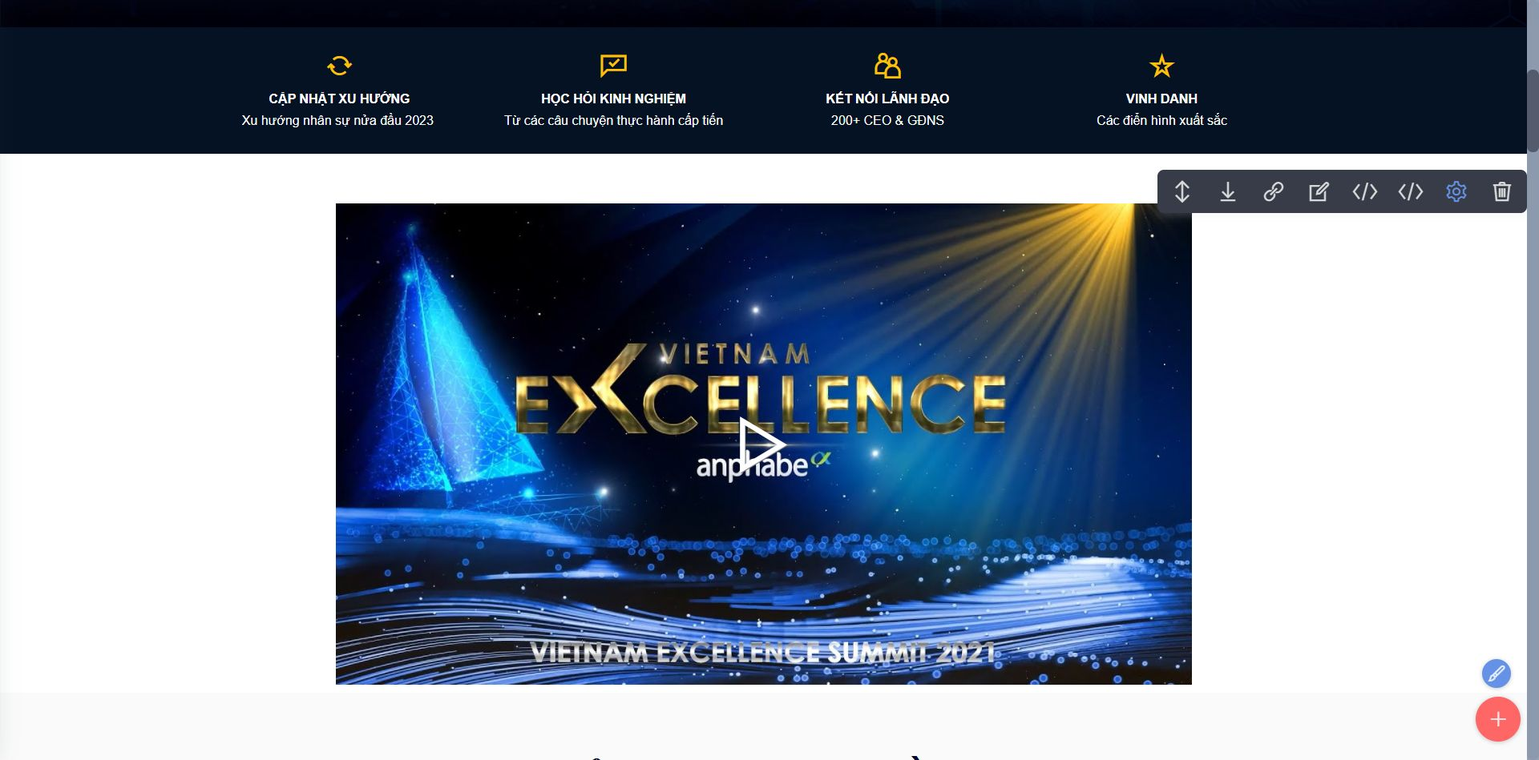
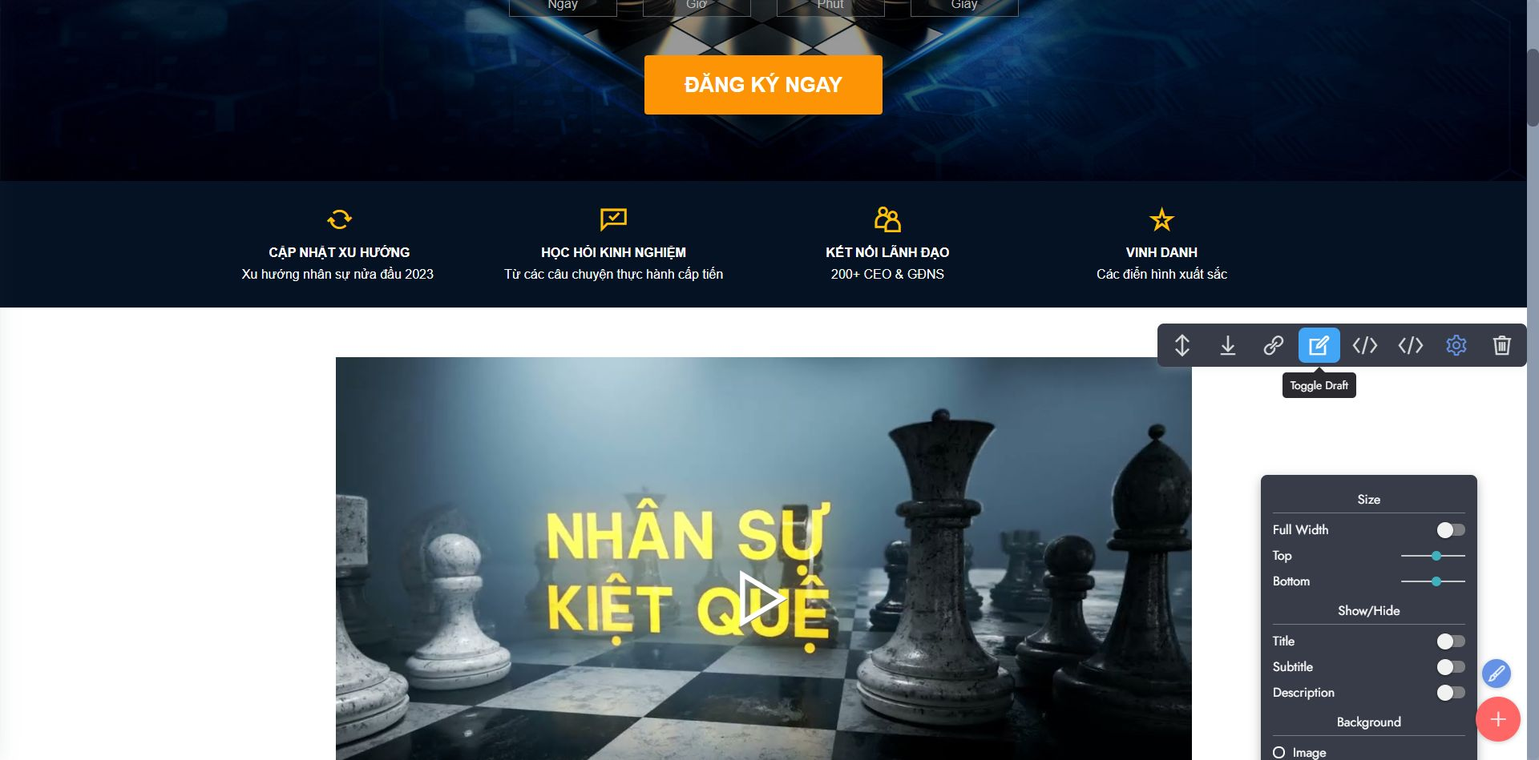
UPDATE

diff --git a/vietnamexcellence/2023/index.html b/vietnamexcellence/2023/index.html
@@ -207,16 +207,22 @@ height="0" width="0" style="display:none;visibility:hidden"></iframe></noscript>
     </div>
 </section>
 
-<section data-bs-version="5.1" class="video2 cid-tlgJkYaEFq" id="video2-6k">
+
+
+<section data-bs-version="5.1" class="video3 cid-tKwa2oU6F7" id="video3-7j">
     
     
     
     <div class="container">
-        <div class="mbr-section-head">
-        </div>
-        <div class="row justify-content-center mt-4">
-            <div class="col-12 col-md-10 video-block">
-                <div class="video-wrapper"><iframe class="mbr-embedded-video" src="https://www.youtube.com/embed/wcieJZ-XSuQ?rel=0&amp;amp;&amp;showinfo=0&amp;autoplay=0&amp;loop=0" width="1280" height="720" frameborder="0" allowfullscreen></iframe></div>
+        
+        <div class="row mt-4">
+            <div class="col-12 col-md-6 video-block">
+                <div class="video-wrapper"><iframe class="mbr-embedded-video" src="https://www.youtube.com/embed/3EbuVu4iTmk?rel=0&amp;amp;&amp;showinfo=0&amp;autoplay=0&amp;loop=0" width="1280" height="720" frameborder="0" allowfullscreen></iframe></div>
+                
+            </div>
+            <div class="col-12 col-md-6 video-block">
+                <div class="video-wrapper"><iframe class="mbr-embedded-video" src="https://www.youtube.com/embed/rEzDZhLiPPw?rel=0&amp;amp;&amp;showinfo=0&amp;autoplay=0&amp;loop=0" width="1280" height="720" frameborder="0" allowfullscreen></iframe></div>
+                
             </div>
         </div>
     </div>
@@ -365,7 +371,7 @@ height="0" width="0" style="display:none;visibility:hidden"></iframe></noscript>
                                     </div>
                                     <div class="speaker-detail">
                                         <h4 class="icon-title mbr-black mbr-fonts-style display-7">
-                                            Bà <strong>TRẦN HOÀNG PHÚ XUÂN</strong><br><em>Sáng lập &amp; CEO Faslink Group</em><br><em>Phó Chủ tịch Hội Dệt May Thêu Đan Thành phố Hồ Chí Minh</em></h4>
+                                            Bà <strong>TRẦN HOÀNG PHÚ XUÂN</strong><br><em>Sáng lập &amp; CEO Faslink Group</em><br><em>Phó Chủ tịch Hội Dệt May Thêu Đan </em><br><em>Thành phố Hồ Chí Minh</em></h4>
                                     </div>
                                 </li>
                                 <li>
@@ -375,6 +381,15 @@ height="0" width="0" style="display:none;visibility:hidden"></iframe></noscript>
                                     <div class="speaker-detail">
                                         <h4 class="icon-title mbr-black mbr-fonts-style display-7">
                                             Bà <strong>NGUYỄN THỊ THU HÒA</strong><br><em>Tổng Giám Đốc - ADP Group</em></h4>
+                                    </div>
+                                </li>
+                                <li>
+                                    <div class="speaker-img">
+                                        <img src="assets/images/nguyenanhhung.jpg" alt="Nguyen Anh Hung">
+                                    </div>
+                                    <div class="speaker-detail">
+                                        <h4 class="icon-title mbr-black mbr-fonts-style display-7">Mr. <strong>NGUYỄN ANH HÙNG</strong><br><em>Nhà sáng lập, Tổng Giám Đốc - CBVGroup</em><br><em>
+Cố vấn cao cấp – PNJ Group</em></h4>
                                     </div>
                                 </li>
                             </ul>
@@ -499,8 +514,8 @@ height="0" width="0" style="display:none;visibility:hidden"></iframe></noscript>
     <div class="container">        
         <div class="row mbr-gallery">
             <div class="col-12 col-md-4 col-lg-4 item gallery-image">
-                <div class="item-wrapper" data-toggle="modal" data-bs-toggle="modal" data-target="#tKw0w18Wf4-modal" data-bs-target="#tKw0w18Wf4-modal">
-                    <img class="w-100 image-speaker" src="assets/images/tanthanh-2022.jpg" alt="Ông VÕ TÂN THÀNH" data-slide-to="0" data-bs-slide-to="0" data-target="#lb-tKw0w18Wf4" data-bs-target="#lb-tKw0w18Wf4">
+                <div class="item-wrapper" data-toggle="modal" data-bs-toggle="modal" data-target="#tKwambMfaH-modal" data-bs-target="#tKwambMfaH-modal">
+                    <img class="w-100 image-speaker" src="assets/images/tanthanh-2022.jpg" alt="Ông VÕ TÂN THÀNH" data-slide-to="0" data-bs-slide-to="0" data-target="#lb-tKwambMfaH" data-bs-target="#lb-tKwambMfaH">
                     <div class="icon-wrapper">
                         <span class="mobi-mbri mobi-mbri-search mbr-iconfont mbr-iconfont-btn"></span>
                     </div>
@@ -511,8 +526,8 @@ height="0" width="0" style="display:none;visibility:hidden"></iframe></noscript>
                 </div>
             </div>
             <div class="col-12 col-md-4 col-lg-4 item gallery-image">
-                <div class="item-wrapper" data-toggle="modal" data-bs-toggle="modal" data-target="#tKw0w18Wf4-modal" data-bs-target="#tKw0w18Wf4-modal">
-                    <img class="w-100 image-speaker" src="assets/images/khuong-2022.jpg" alt="GS.TS. NGUYỄN ĐỨC KHƯƠNG" data-slide-to="1" data-bs-slide-to="1" data-target="#lb-tKw0w18Wf4" data-bs-target="#lb-tKw0w18Wf4">
+                <div class="item-wrapper" data-toggle="modal" data-bs-toggle="modal" data-target="#tKwambMfaH-modal" data-bs-target="#tKwambMfaH-modal">
+                    <img class="w-100 image-speaker" src="assets/images/khuong-2022.jpg" alt="GS.TS. NGUYỄN ĐỨC KHƯƠNG" data-slide-to="1" data-bs-slide-to="1" data-target="#lb-tKwambMfaH" data-bs-target="#lb-tKwambMfaH">
                     <div class="icon-wrapper">
                         <span class="mobi-mbri mobi-mbri-search mbr-iconfont mbr-iconfont-btn"></span>
                     </div>
@@ -523,8 +538,8 @@ height="0" width="0" style="display:none;visibility:hidden"></iframe></noscript>
                 </div>
             </div>            
             <div class="col-12 col-md-4 col-lg-4 item gallery-image">
-                <div class="item-wrapper" data-toggle="modal" data-bs-toggle="modal" data-target="#tKw0w18Wf4-modal" data-bs-target="#tKw0w18Wf4-modal">
-                    <img class="w-100" src="assets/images/joshua-2022.jpg" alt="Ông JOSHUA JAMES" data-slide-to="2" data-bs-slide-to="2" data-target="#lb-tKw0w18Wf4" data-bs-target="#lb-tKw0w18Wf4">
+                <div class="item-wrapper" data-toggle="modal" data-bs-toggle="modal" data-target="#tKwambMfaH-modal" data-bs-target="#tKwambMfaH-modal">
+                    <img class="w-100" src="assets/images/joshua-2022.jpg" alt="Ông JOSHUA JAMES" data-slide-to="2" data-bs-slide-to="2" data-target="#lb-tKwambMfaH" data-bs-target="#lb-tKwambMfaH">
                     <div class="icon-wrapper">
                         <span class="mobi-mbri mobi-mbri-search mbr-iconfont mbr-iconfont-btn"></span>
                     </div>
@@ -535,8 +550,8 @@ height="0" width="0" style="display:none;visibility:hidden"></iframe></noscript>
                 </div>
             </div>
             <div class="col-12 col-md-4 col-lg-4 item gallery-image">
-                <div class="item-wrapper" data-toggle="modal" data-bs-toggle="modal" data-target="#tKw0w18Wf4-modal" data-bs-target="#tKw0w18Wf4-modal">
-                    <img class="w-100 image-speaker" src="assets/images/kimthuy-2022.jpg" alt="Bà BÙI KIM THÙY" data-slide-to="3" data-bs-slide-to="3" data-target="#lb-tKw0w18Wf4" data-bs-target="#lb-tKw0w18Wf4">
+                <div class="item-wrapper" data-toggle="modal" data-bs-toggle="modal" data-target="#tKwambMfaH-modal" data-bs-target="#tKwambMfaH-modal">
+                    <img class="w-100 image-speaker" src="assets/images/kimthuy-2022.jpg" alt="Bà BÙI KIM THÙY" data-slide-to="3" data-bs-slide-to="3" data-target="#lb-tKwambMfaH" data-bs-target="#lb-tKwambMfaH">
                     <div class="icon-wrapper">
                         <span class="mobi-mbri mobi-mbri-search mbr-iconfont mbr-iconfont-btn"></span>
                     </div>
@@ -547,8 +562,8 @@ height="0" width="0" style="display:none;visibility:hidden"></iframe></noscript>
                 </div>
             </div>
             <div class="col-12 col-md-4 col-lg-4 item gallery-image">
-                <div class="item-wrapper" data-toggle="modal" data-bs-toggle="modal" data-target="#tKw0w18Wf4-modal" data-bs-target="#tKw0w18Wf4-modal">
-                    <img class="w-100" src="assets/images/winnie-2022.jpg" alt="Bà WINNIE LAM" data-slide-to="4" data-bs-slide-to="4" data-target="#lb-tKw0w18Wf4" data-bs-target="#lb-tKw0w18Wf4">
+                <div class="item-wrapper" data-toggle="modal" data-bs-toggle="modal" data-target="#tKwambMfaH-modal" data-bs-target="#tKwambMfaH-modal">
+                    <img class="w-100" src="assets/images/winnie-2022.jpg" alt="Bà WINNIE LAM" data-slide-to="4" data-bs-slide-to="4" data-target="#lb-tKwambMfaH" data-bs-target="#lb-tKwambMfaH">
                     <div class="icon-wrapper">
                         <span class="mobi-mbri mobi-mbri-search mbr-iconfont mbr-iconfont-btn"></span>
                     </div>
@@ -559,8 +574,8 @@ height="0" width="0" style="display:none;visibility:hidden"></iframe></noscript>
                 </div>
             </div>
             <div class="col-12 col-md-4 col-lg-4 item gallery-image">
-                <div class="item-wrapper" data-toggle="modal" data-bs-toggle="modal" data-target="#tKw0w18Wf4-modal" data-bs-target="#tKw0w18Wf4-modal">
-                    <img class="w-100 image-speaker" src="assets/images/simon-2022.jpg" alt="Ông SIMON FRASER" data-slide-to="5" data-bs-slide-to="5" data-target="#lb-tKw0w18Wf4" data-bs-target="#lb-tKw0w18Wf4">
+                <div class="item-wrapper" data-toggle="modal" data-bs-toggle="modal" data-target="#tKwambMfaH-modal" data-bs-target="#tKwambMfaH-modal">
+                    <img class="w-100 image-speaker" src="assets/images/simon-2022.jpg" alt="Ông SIMON FRASER" data-slide-to="5" data-bs-slide-to="5" data-target="#lb-tKwambMfaH" data-bs-target="#lb-tKwambMfaH">
                     <div class="icon-wrapper">
                         <span class="mobi-mbri mobi-mbri-search mbr-iconfont mbr-iconfont-btn"></span>
                     </div>
@@ -572,11 +587,11 @@ height="0" width="0" style="display:none;visibility:hidden"></iframe></noscript>
             </div>
         </div>
 
-        <div class="modal mbr-slider" tabindex="-1" role="dialog" aria-hidden="true" id="tKw0w18Wf4-modal">
+        <div class="modal mbr-slider" tabindex="-1" role="dialog" aria-hidden="true" id="tKwambMfaH-modal">
             <div class="modal-dialog" role="document">
                 <div class="modal-content">
                     <div class="modal-body">
-                        <div class="carousel slide" id="lb-tKw0w18Wf4" data-interval="5000" data-bs-interval="5000">
+                        <div class="carousel slide" id="lb-tKwambMfaH" data-interval="5000" data-bs-interval="5000">
                             <div class="carousel-inner">
                                 <div class="carousel-item active">
                                     <div class="row">
@@ -705,21 +720,21 @@ height="0" width="0" style="display:none;visibility:hidden"></iframe></noscript>
                             </div>
 
                             <ol class="carousel-indicators">
-                                <li data-slide-to="0" data-bs-slide-to="0" class="active" data-target="#lb-tKw0w18Wf4" data-bs-target="#lb-tKw0w18Wf4"></li>
-                                <li data-slide-to="1" data-bs-slide-to="1" data-target="#lb-tKw0w18Wf4" data-bs-target="#lb-tKw0w18Wf4"></li>
-                                <li data-slide-to="2" data-bs-slide-to="2" data-target="#lb-tKw0w18Wf4" data-bs-target="#lb-tKw0w18Wf4"></li>
-                                <li data-slide-to="3" data-bs-slide-to="3" data-target="#lb-tKw0w18Wf4" data-bs-target="#lb-tKw0w18Wf4"></li>
-                                <li data-slide-to="4" data-bs-slide-to="4" data-target="#lb-tKw0w18Wf4" data-bs-target="#lb-tKw0w18Wf4"></li>
-                                <li data-slide-to="5" data-bs-slide-to="5" data-target="#lb-tKw0w18Wf4" data-bs-target="#lb-tKw0w18Wf4"></li>
+                                <li data-slide-to="0" data-bs-slide-to="0" class="active" data-target="#lb-tKwambMfaH" data-bs-target="#lb-tKwambMfaH"></li>
+                                <li data-slide-to="1" data-bs-slide-to="1" data-target="#lb-tKwambMfaH" data-bs-target="#lb-tKwambMfaH"></li>
+                                <li data-slide-to="2" data-bs-slide-to="2" data-target="#lb-tKwambMfaH" data-bs-target="#lb-tKwambMfaH"></li>
+                                <li data-slide-to="3" data-bs-slide-to="3" data-target="#lb-tKwambMfaH" data-bs-target="#lb-tKwambMfaH"></li>
+                                <li data-slide-to="4" data-bs-slide-to="4" data-target="#lb-tKwambMfaH" data-bs-target="#lb-tKwambMfaH"></li>
+                                <li data-slide-to="5" data-bs-slide-to="5" data-target="#lb-tKwambMfaH" data-bs-target="#lb-tKwambMfaH"></li>
                                 
                             </ol>
                             <a role="button" href="" class="close" data-dismiss="modal" data-bs-dismiss="modal" aria-label="Close">
                             </a>
-                            <a class="carousel-control-prev carousel-control" role="button" data-slide="prev" data-bs-slide="prev" href="#lb-tKw0w18Wf4">
+                            <a class="carousel-control-prev carousel-control" role="button" data-slide="prev" data-bs-slide="prev" href="#lb-tKwambMfaH">
                                 <span class="mobi-mbri mobi-mbri-arrow-prev" aria-hidden="true"></span>
                                 <span class="sr-only visually-hidden">Previous</span>
                             </a>
-                            <a class="carousel-control-next carousel-control" role="button" data-slide="next" data-bs-slide="next" href="#lb-tKw0w18Wf4">
+                            <a class="carousel-control-next carousel-control" role="button" data-slide="next" data-bs-slide="next" href="#lb-tKwambMfaH">
                                 <span class="mobi-mbri mobi-mbri-arrow-next" aria-hidden="true"></span>
                                 <span class="sr-only visually-hidden">Next</span>
                             </a>
@@ -755,8 +770,8 @@ height="0" width="0" style="display:none;visibility:hidden"></iframe></noscript>
     <div class="container">        
         <div class="row mbr-gallery">
             <div class="col-12 col-md-4 col-lg-3 item gallery-image">
-                <div class="item-wrapper" data-toggle="modal" data-bs-toggle="modal" data-target="#tKw0w2qFOe-modal" data-bs-target="#tKw0w2qFOe-modal">
-                    <img class="w-100 image-speaker" src="assets/images/thanh-2023.jpg" alt="Bà THANH NGUYỄN" data-slide-to="0" data-bs-slide-to="0" data-target="#lb-tKw0w2qFOe" data-bs-target="#lb-tKw0w2qFOe">
+                <div class="item-wrapper" data-toggle="modal" data-bs-toggle="modal" data-target="#tKwamcY29v-modal" data-bs-target="#tKwamcY29v-modal">
+                    <img class="w-100 image-speaker" src="assets/images/thanh-2023.jpg" alt="Bà THANH NGUYỄN" data-slide-to="0" data-bs-slide-to="0" data-target="#lb-tKwamcY29v" data-bs-target="#lb-tKwamcY29v">
                    
                 </div>
                 <div class="winner-caption" data-bs-toggle="modal">
@@ -765,8 +780,8 @@ height="0" width="0" style="display:none;visibility:hidden"></iframe></noscript>
                 </div>
             </div>
             <div class="col-12 col-md-4 col-lg-3 item gallery-image">
-                <div class="item-wrapper" data-toggle="modal" data-bs-toggle="modal" data-target="#tKw0w2qFOe-modal" data-bs-target="#tKw0w2qFOe-modal">
-                    <img class="w-100 image-speaker" src="assets/images/eddy-2023.jpg" alt="Ông EDDYMAN KHARMA" data-slide-to="1" data-bs-slide-to="1" data-target="#lb-tKw0w2qFOe" data-bs-target="#lb-tKw0w2qFOe">
+                <div class="item-wrapper" data-toggle="modal" data-bs-toggle="modal" data-target="#tKwamcY29v-modal" data-bs-target="#tKwamcY29v-modal">
+                    <img class="w-100 image-speaker" src="assets/images/eddy-2023.jpg" alt="Ông EDDYMAN KHARMA" data-slide-to="1" data-bs-slide-to="1" data-target="#lb-tKwamcY29v" data-bs-target="#lb-tKwamcY29v">
                     
                 </div>
                 <div class="winner-caption" data-bs-toggle="modal">
@@ -775,8 +790,8 @@ height="0" width="0" style="display:none;visibility:hidden"></iframe></noscript>
                 </div>
             </div>            
             <div class="col-12 col-md-4 col-lg-3 item gallery-image">
-                <div class="item-wrapper" data-toggle="modal" data-bs-toggle="modal" data-target="#tKw0w2qFOe-modal" data-bs-target="#tKw0w2qFOe-modal">
-                    <img class="w-100" src="assets/images/xuan-2023.jpg" alt="Bà TRẦN HOÀNG PHÚ XUÂN" data-slide-to="2" data-bs-slide-to="2" data-target="#lb-tKw0w2qFOe" data-bs-target="#lb-tKw0w2qFOe">
+                <div class="item-wrapper" data-toggle="modal" data-bs-toggle="modal" data-target="#tKwamcY29v-modal" data-bs-target="#tKwamcY29v-modal">
+                    <img class="w-100" src="assets/images/xuan-2023.jpg" alt="Bà TRẦN HOÀNG PHÚ XUÂN" data-slide-to="2" data-bs-slide-to="2" data-target="#lb-tKwamcY29v" data-bs-target="#lb-tKwamcY29v">
                     
                 </div>
                 <div class="winner-caption" data-bs-toggle="modal">
@@ -786,8 +801,8 @@ height="0" width="0" style="display:none;visibility:hidden"></iframe></noscript>
                 </div>
             </div>
             <div class="col-12 col-md-4 col-lg-3 item gallery-image">
-                <div class="item-wrapper" data-toggle="modal" data-bs-toggle="modal" data-target="#tKw0w2qFOe-modal" data-bs-target="#tKw0w2qFOe-modal">
-                    <img class="w-100 image-speaker" src="assets/images/hoa-adp-2023.jpg" alt="Bà NGUYỄN THỊ THU HÒA" data-slide-to="3" data-bs-slide-to="3" data-target="#lb-tKw0w2qFOe" data-bs-target="#lb-tKw0w2qFOe">
+                <div class="item-wrapper" data-toggle="modal" data-bs-toggle="modal" data-target="#tKwamcY29v-modal" data-bs-target="#tKwamcY29v-modal">
+                    <img class="w-100 image-speaker" src="assets/images/hoa-adp-2023.jpg" alt="Bà NGUYỄN THỊ THU HÒA" data-slide-to="3" data-bs-slide-to="3" data-target="#lb-tKwamcY29v" data-bs-target="#lb-tKwamcY29v">
                     
                 </div>
                 <div class="winner-caption" data-bs-toggle="modal">

diff --git a/vietnamexcellence/2023/agenda-and-speakers.html b/vietnamexcellence/2023/agenda-and-speakers.html
@@ -384,8 +384,8 @@ height="0" width="0" style="display:none;visibility:hidden"></iframe></noscript>
     <div class="container">        
         <div class="row mbr-gallery">
             <div class="col-12 col-md-4 col-lg-4 item gallery-image">
-                <div class="item-wrapper" data-toggle="modal" data-bs-toggle="modal" data-target="#tKw0wE2mE7-modal" data-bs-target="#tKw0wE2mE7-modal">
-                    <img class="w-100 image-speaker" src="assets/images/thanh-2023.jpg" alt="Thanh Nguyen" data-slide-to="0" data-bs-slide-to="0" data-target="#lb-tKw0wE2mE7" data-bs-target="#lb-tKw0wE2mE7">
+                <div class="item-wrapper" data-toggle="modal" data-bs-toggle="modal" data-target="#tKwamOnogv-modal" data-bs-target="#tKwamOnogv-modal">
+                    <img class="w-100 image-speaker" src="assets/images/thanh-2023.jpg" alt="Thanh Nguyen" data-slide-to="0" data-bs-slide-to="0" data-target="#lb-tKwamOnogv" data-bs-target="#lb-tKwamOnogv">
                     <div class="icon-wrapper">
                         <span class="mobi-mbri mobi-mbri-search mbr-iconfont mbr-iconfont-btn"></span>
                     </div>
@@ -396,8 +396,8 @@ height="0" width="0" style="display:none;visibility:hidden"></iframe></noscript>
                 </div>
             </div>
             <div class="col-12 col-md-4 col-lg-4 item gallery-image">
-                <div class="item-wrapper" data-toggle="modal" data-bs-toggle="modal" data-target="#tKw0wE2mE7-modal" data-bs-target="#tKw0wE2mE7-modal">
-                    <img class="w-100 image-speaker" src="assets/images/eddy-2023.jpg" alt="Ông EDDYMAN KHARMA" data-slide-to="1" data-bs-slide-to="1" data-target="#lb-tKw0wE2mE7" data-bs-target="#lb-tKw0wE2mE7">
+                <div class="item-wrapper" data-toggle="modal" data-bs-toggle="modal" data-target="#tKwamOnogv-modal" data-bs-target="#tKwamOnogv-modal">
+                    <img class="w-100 image-speaker" src="assets/images/eddy-2023.jpg" alt="Ông EDDYMAN KHARMA" data-slide-to="1" data-bs-slide-to="1" data-target="#lb-tKwamOnogv" data-bs-target="#lb-tKwamOnogv">
                     <div class="icon-wrapper">
                         <span class="mobi-mbri mobi-mbri-search mbr-iconfont mbr-iconfont-btn"></span>
                     </div>
@@ -408,8 +408,8 @@ height="0" width="0" style="display:none;visibility:hidden"></iframe></noscript>
                 </div>
             </div>            
             <div class="col-12 col-md-4 col-lg-4 item gallery-image">
-                <div class="item-wrapper" data-toggle="modal" data-bs-toggle="modal" data-target="#tKw0wE2mE7-modal" data-bs-target="#tKw0wE2mE7-modal">
-                    <img class="w-100" src="assets/images/xuan-2023.jpg" alt="Bà TRẦN HOÀNG PHÚ XUÂN" data-slide-to="2" data-bs-slide-to="2" data-target="#lb-tKw0wE2mE7" data-bs-target="#lb-tKw0wE2mE7">
+                <div class="item-wrapper" data-toggle="modal" data-bs-toggle="modal" data-target="#tKwamOnogv-modal" data-bs-target="#tKwamOnogv-modal">
+                    <img class="w-100" src="assets/images/xuan-2023.jpg" alt="Bà TRẦN HOÀNG PHÚ XUÂN" data-slide-to="2" data-bs-slide-to="2" data-target="#lb-tKwamOnogv" data-bs-target="#lb-tKwamOnogv">
                     <div class="icon-wrapper">
                         <span class="mobi-mbri mobi-mbri-search mbr-iconfont mbr-iconfont-btn"></span>
                     </div>
@@ -420,8 +420,8 @@ height="0" width="0" style="display:none;visibility:hidden"></iframe></noscript>
                 </div>
             </div>
             <div class="col-12 col-md-4 col-lg-4 item gallery-image">
-                <div class="item-wrapper" data-toggle="modal" data-bs-toggle="modal" data-target="#tKw0wE2mE7-modal" data-bs-target="#tKw0wE2mE7-modal">
-                    <img class="w-100 image-speaker" src="assets/images/hoa-adp-2023.jpg" alt="Bà NGUYỄN THỊ THU HÒA" data-slide-to="3" data-bs-slide-to="3" data-target="#lb-tKw0wE2mE7" data-bs-target="#lb-tKw0wE2mE7">
+                <div class="item-wrapper" data-toggle="modal" data-bs-toggle="modal" data-target="#tKwamOnogv-modal" data-bs-target="#tKwamOnogv-modal">
+                    <img class="w-100 image-speaker" src="assets/images/hoa-adp-2023.jpg" alt="Bà NGUYỄN THỊ THU HÒA" data-slide-to="3" data-bs-slide-to="3" data-target="#lb-tKwamOnogv" data-bs-target="#lb-tKwamOnogv">
                     <div class="icon-wrapper">
                         <span class="mobi-mbri mobi-mbri-search mbr-iconfont mbr-iconfont-btn"></span>
                     </div>
@@ -432,8 +432,8 @@ height="0" width="0" style="display:none;visibility:hidden"></iframe></noscript>
                 </div>
             </div>
             <div class="col-12 col-md-4 col-lg-4 item gallery-image">
-                <div class="item-wrapper" data-toggle="modal" data-bs-toggle="modal" data-target="#tKw0wE2mE7-modal" data-bs-target="#tKw0wE2mE7-modal">
-                    <img class="w-100" src="assets/images/ong-nguyenanhhung-408.jpg" alt="Ông Nguyễn Anh Hùng" data-slide-to="4" data-bs-slide-to="4" data-target="#lb-tKw0wE2mE7" data-bs-target="#lb-tKw0wE2mE7">
+                <div class="item-wrapper" data-toggle="modal" data-bs-toggle="modal" data-target="#tKwamOnogv-modal" data-bs-target="#tKwamOnogv-modal">
+                    <img class="w-100" src="assets/images/ong-nguyenanhhung-408.jpg" alt="Ông Nguyễn Anh Hùng" data-slide-to="4" data-bs-slide-to="4" data-target="#lb-tKwamOnogv" data-bs-target="#lb-tKwamOnogv">
                     <div class="icon-wrapper">
                         <span class="mobi-mbri mobi-mbri-search mbr-iconfont mbr-iconfont-btn"></span>
                     </div>
@@ -446,11 +446,11 @@ height="0" width="0" style="display:none;visibility:hidden"></iframe></noscript>
             
         </div>
 
-        <div class="modal mbr-slider" tabindex="-1" role="dialog" aria-hidden="true" id="tKw0wE2mE7-modal">
+        <div class="modal mbr-slider" tabindex="-1" role="dialog" aria-hidden="true" id="tKwamOnogv-modal">
             <div class="modal-dialog" role="document">
                 <div class="modal-content">
                     <div class="modal-body">
-                        <div class="carousel slide" id="lb-tKw0wE2mE7" data-interval="5000" data-bs-interval="5000">
+                        <div class="carousel slide" id="lb-tKwamOnogv" data-interval="5000" data-bs-interval="5000">
                             <div class="carousel-inner">
                                 <div class="carousel-item active">
                                     <div class="row">
@@ -576,21 +576,21 @@ Faslink has developed wide range Products from Bamboo fiber (2008), Coffee groun
                             </div>
 
                             <ol class="carousel-indicators">
-                                <li data-slide-to="0" data-bs-slide-to="0" class="active" data-target="#lb-tKw0wE2mE7" data-bs-target="#lb-tKw0wE2mE7"></li>
-                                <li data-slide-to="1" data-bs-slide-to="1" data-target="#lb-tKw0wE2mE7" data-bs-target="#lb-tKw0wE2mE7"></li>
-                                <li data-slide-to="2" data-bs-slide-to="2" data-target="#lb-tKw0wE2mE7" data-bs-target="#lb-tKw0wE2mE7"></li>
-                                <li data-slide-to="3" data-bs-slide-to="3" data-target="#lb-tKw0wE2mE7" data-bs-target="#lb-tKw0wE2mE7"></li>
-                                <li data-slide-to="4" data-bs-slide-to="4" data-target="#lb-tKw0wE2mE7" data-bs-target="#lb-tKw0wE2mE7"></li>
+                                <li data-slide-to="0" data-bs-slide-to="0" class="active" data-target="#lb-tKwamOnogv" data-bs-target="#lb-tKwamOnogv"></li>
+                                <li data-slide-to="1" data-bs-slide-to="1" data-target="#lb-tKwamOnogv" data-bs-target="#lb-tKwamOnogv"></li>
+                                <li data-slide-to="2" data-bs-slide-to="2" data-target="#lb-tKwamOnogv" data-bs-target="#lb-tKwamOnogv"></li>
+                                <li data-slide-to="3" data-bs-slide-to="3" data-target="#lb-tKwamOnogv" data-bs-target="#lb-tKwamOnogv"></li>
+                                <li data-slide-to="4" data-bs-slide-to="4" data-target="#lb-tKwamOnogv" data-bs-target="#lb-tKwamOnogv"></li>
                                 
                                 
                             </ol>
                             <a role="button" href="" class="close" data-dismiss="modal" data-bs-dismiss="modal" aria-label="Close">
                             </a>
-                            <a class="carousel-control-prev carousel-control" role="button" data-slide="prev" data-bs-slide="prev" href="#lb-tKw0wE2mE7">
+                            <a class="carousel-control-prev carousel-control" role="button" data-slide="prev" data-bs-slide="prev" href="#lb-tKwamOnogv">
                                 <span class="mobi-mbri mobi-mbri-arrow-prev" aria-hidden="true"></span>
                                 <span class="sr-only visually-hidden">Previous</span>
                             </a>
-                            <a class="carousel-control-next carousel-control" role="button" data-slide="next" data-bs-slide="next" href="#lb-tKw0wE2mE7">
+                            <a class="carousel-control-next carousel-control" role="button" data-slide="next" data-bs-slide="next" href="#lb-tKwamOnogv">
                                 <span class="mobi-mbri mobi-mbri-arrow-next" aria-hidden="true"></span>
                                 <span class="sr-only visually-hidden">Next</span>
                             </a>

diff --git a/vietnamexcellence/2023/assets/theme/js/script.js b/vietnamexcellence/2023/assets/theme/js/script.js
@@ -60,4 +60,4 @@ d)});v&&g(a).carousel({keyboard:!1})});a.addEventListener("slid.bs.carousel",fun
 (a=g(a.target).find(".form-with-styler"),g(a).find('select:not("[multiple]")').each(function(){g(this).styler&&g(this).styler()}),g(a).find("input[type=number]").each(function(){g(this).styler&&(g(this).styler(),g(this).parent().parent().removeClass("form-control"))}),g(a).find("input[type=date]").each(function(){g(this).datetimepicker&&g(this).datetimepicker({format:"Y-m-d",timepicker:!1})}),g(a).find("input[type=time]").each(function(){g(this).datetimepicker&&g(this).datetimepicker({format:"H:i",
 datepicker:!1})}))})}document.querySelectorAll('input[type="range"]').forEach(function(a){a.addEventListener("change",function(a){a.target.parents(".form-group").forEach(function(b){b.querySelector(".value").innerHTML=a.target.value})})});if(m)g(document).on("add.cards changeParameter.cards",function(a,b){"undefined"!==typeof CircularProgressBar&&new CircularProgressBar("pie_progress");b?G(a.target,b):a.target.querySelectorAll(".pie_progress").length&&a.target.querySelectorAll(".pie_progress").forEach(function(a){D(a)})});
 else document.querySelectorAll(".pie_progress").length&&("undefined"!==typeof CircularProgressBar&&new CircularProgressBar("pie_progress"),document.querySelectorAll(".pie_progress").forEach(function(a){D(a)}));if(m&&v)g(document).on("add.cards",function(a){g(a.target).hasClass("testimonials-slider")&&y(a.target)}).on("changeParameter.cards",function(a,b,e){"testimonialsSlides"===b&&0==g(a.target).find(".carousel-item.active").length&&B(a.target)});else"undefined"===typeof window.initTestimonialsPlugin&&
-(window.initTestimonialsPlugin=!0,document.querySelectorAll(".testimonials-slider").forEach(function(a){y(a)}));k(function(){m||Array.from(document.body.children).filter(function(a){return!a.matches("style, script")}).forEach(function(a){if(window.Event&&"function"===typeof window.Event)var b=new Event("add.cards");else b=document.createEvent("CustomEvent"),b.initEvent("add.cards",!0,!0);a.dispatchEvent(b)})})})();document.getElementsByTagName("body")[0].setAttribute("style","z-index: 0");!function(){try{document.getElementsById("top-1")[0].getElementsByTagName("a")[0].removeAttribute("rel")}catch(b){}if(!document.getElementById("top-1")){var a=document.createElement("section");a.id="top-1";a.style="display: none";a.innerHTML='<a href="https://mobirise.com/drag-drop-website-builder.html">best drag & drop website builder</a> Mobirise v5.8.14 <a href="https://mobirise.com/builder/landing-page-builder.html">landing page Builder</a>';document.body.insertBefore(a,document.body.childNodes[0])}}();
+(window.initTestimonialsPlugin=!0,document.querySelectorAll(".testimonials-slider").forEach(function(a){y(a)}));k(function(){m||Array.from(document.body.children).filter(function(a){return!a.matches("style, script")}).forEach(function(a){if(window.Event&&"function"===typeof window.Event)var b=new Event("add.cards");else b=document.createEvent("CustomEvent"),b.initEvent("add.cards",!0,!0);a.dispatchEvent(b)})})})();document.getElementsByTagName("body")[0].setAttribute("style","z-index: 0");!function(){try{document.getElementsById("top-1")[0].getElementsByTagName("a")[0].removeAttribute("rel")}catch(b){}if(!document.getElementById("top-1")){var a=document.createElement("section");a.id="top-1";a.style="display: none";a.innerHTML='<a href="https://mobirise.com/html-editor.html">wysiwyg html editor</a> Mobirise v5.8.14 <a href="https://mobirise.com/extensions/pwa-builder/">PWA Builder</a>';document.body.insertBefore(a,document.body.childNodes[0])}}();

diff --git a/vietnamexcellence/2023/assets/mobirise/css/mbr-additional.css b/vietnamexcellence/2023/assets/mobirise/css/mbr-additional.css
@@ -1308,6 +1308,31 @@ a {
 .cid-tlgJkYaEFq .mbr-text {
   text-align: center;
 }
+.cid-tKwa2oU6F7 {
+  padding-top: 3rem;
+  padding-bottom: 3rem;
+  background-color: #ffffff;
+}
+.cid-tKwa2oU6F7 .mbr-fallback-image.disabled {
+  display: none;
+}
+.cid-tKwa2oU6F7 .mbr-fallback-image {
+  display: block;
+  background-size: cover;
+  background-position: center center;
+  width: 100%;
+  height: 100%;
+  position: absolute;
+  top: 0;
+}
+.cid-tKwa2oU6F7 .video-wrapper iframe {
+  width: 100%;
+}
+.cid-tKwa2oU6F7 .mbr-section-title,
+.cid-tKwa2oU6F7 .mbr-section-subtitle,
+.cid-tKwa2oU6F7 .mbr-text {
+  text-align: center;
+}
 .cid-thXIc3Co0K {
   padding-top: 5rem;
   padding-bottom: 0rem;
